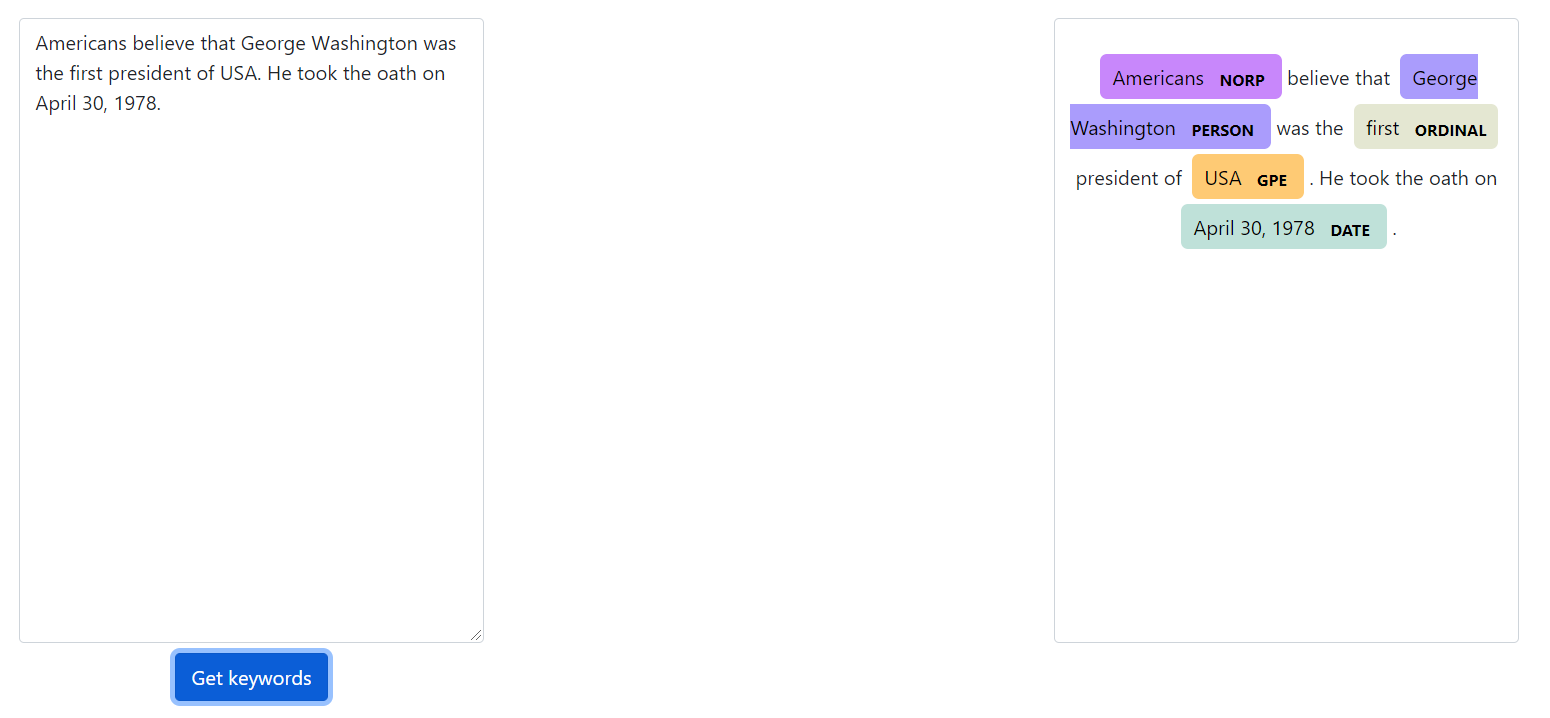
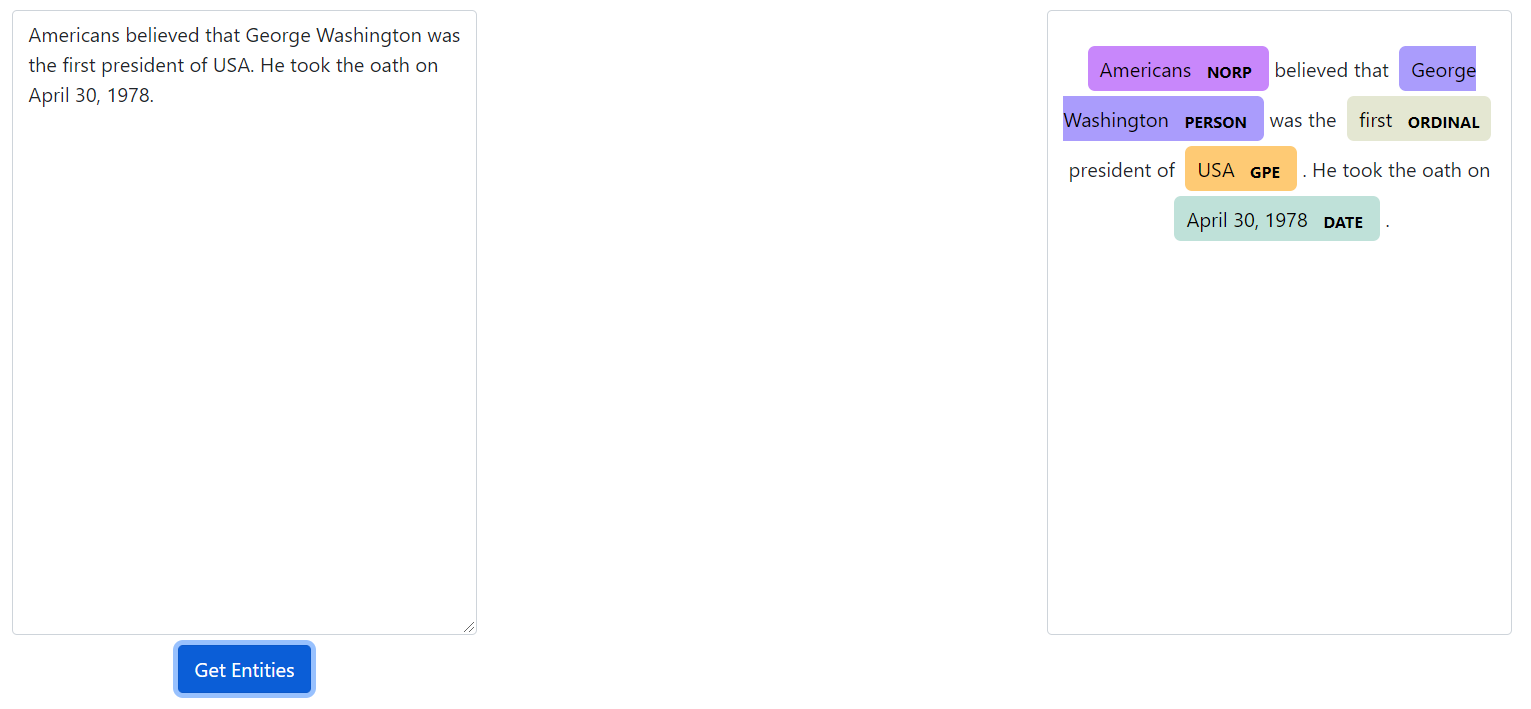
ss added

Changed region(s): [[0.6754, 0.0621, 0.9824, 0.3724], [0.0, 0.031, 0.307, 0.1551], [0.0921, 0.8999, 0.2149, 0.9929]]

diff --git a/src/components/Ner.js b/src/components/Ner.js
@@ -25,7 +25,7 @@ export default class Ner extends Component {
                     <div className="form-floating mt-3 ms-5 d-inline-block h-100" style={{width: "30%"}}>
                         <form onSubmit={this.handleSubmit} id="Ner">
                             <textarea className="form-control" name="content" placeholder="Enter text here" id="doc" style={{height: "500px"}}></textarea>
-                            <button className="btn btn-primary mt-2" type="submit">Get keywords</button>
+                            <button className="btn btn-primary mt-2" type="submit">Get Entities</button>
                         </form>
                     </div>
                 <div className="form-floating ms-auto mt-3 me-5 d-inline-block h-100" style={{width: "30%"}}>
